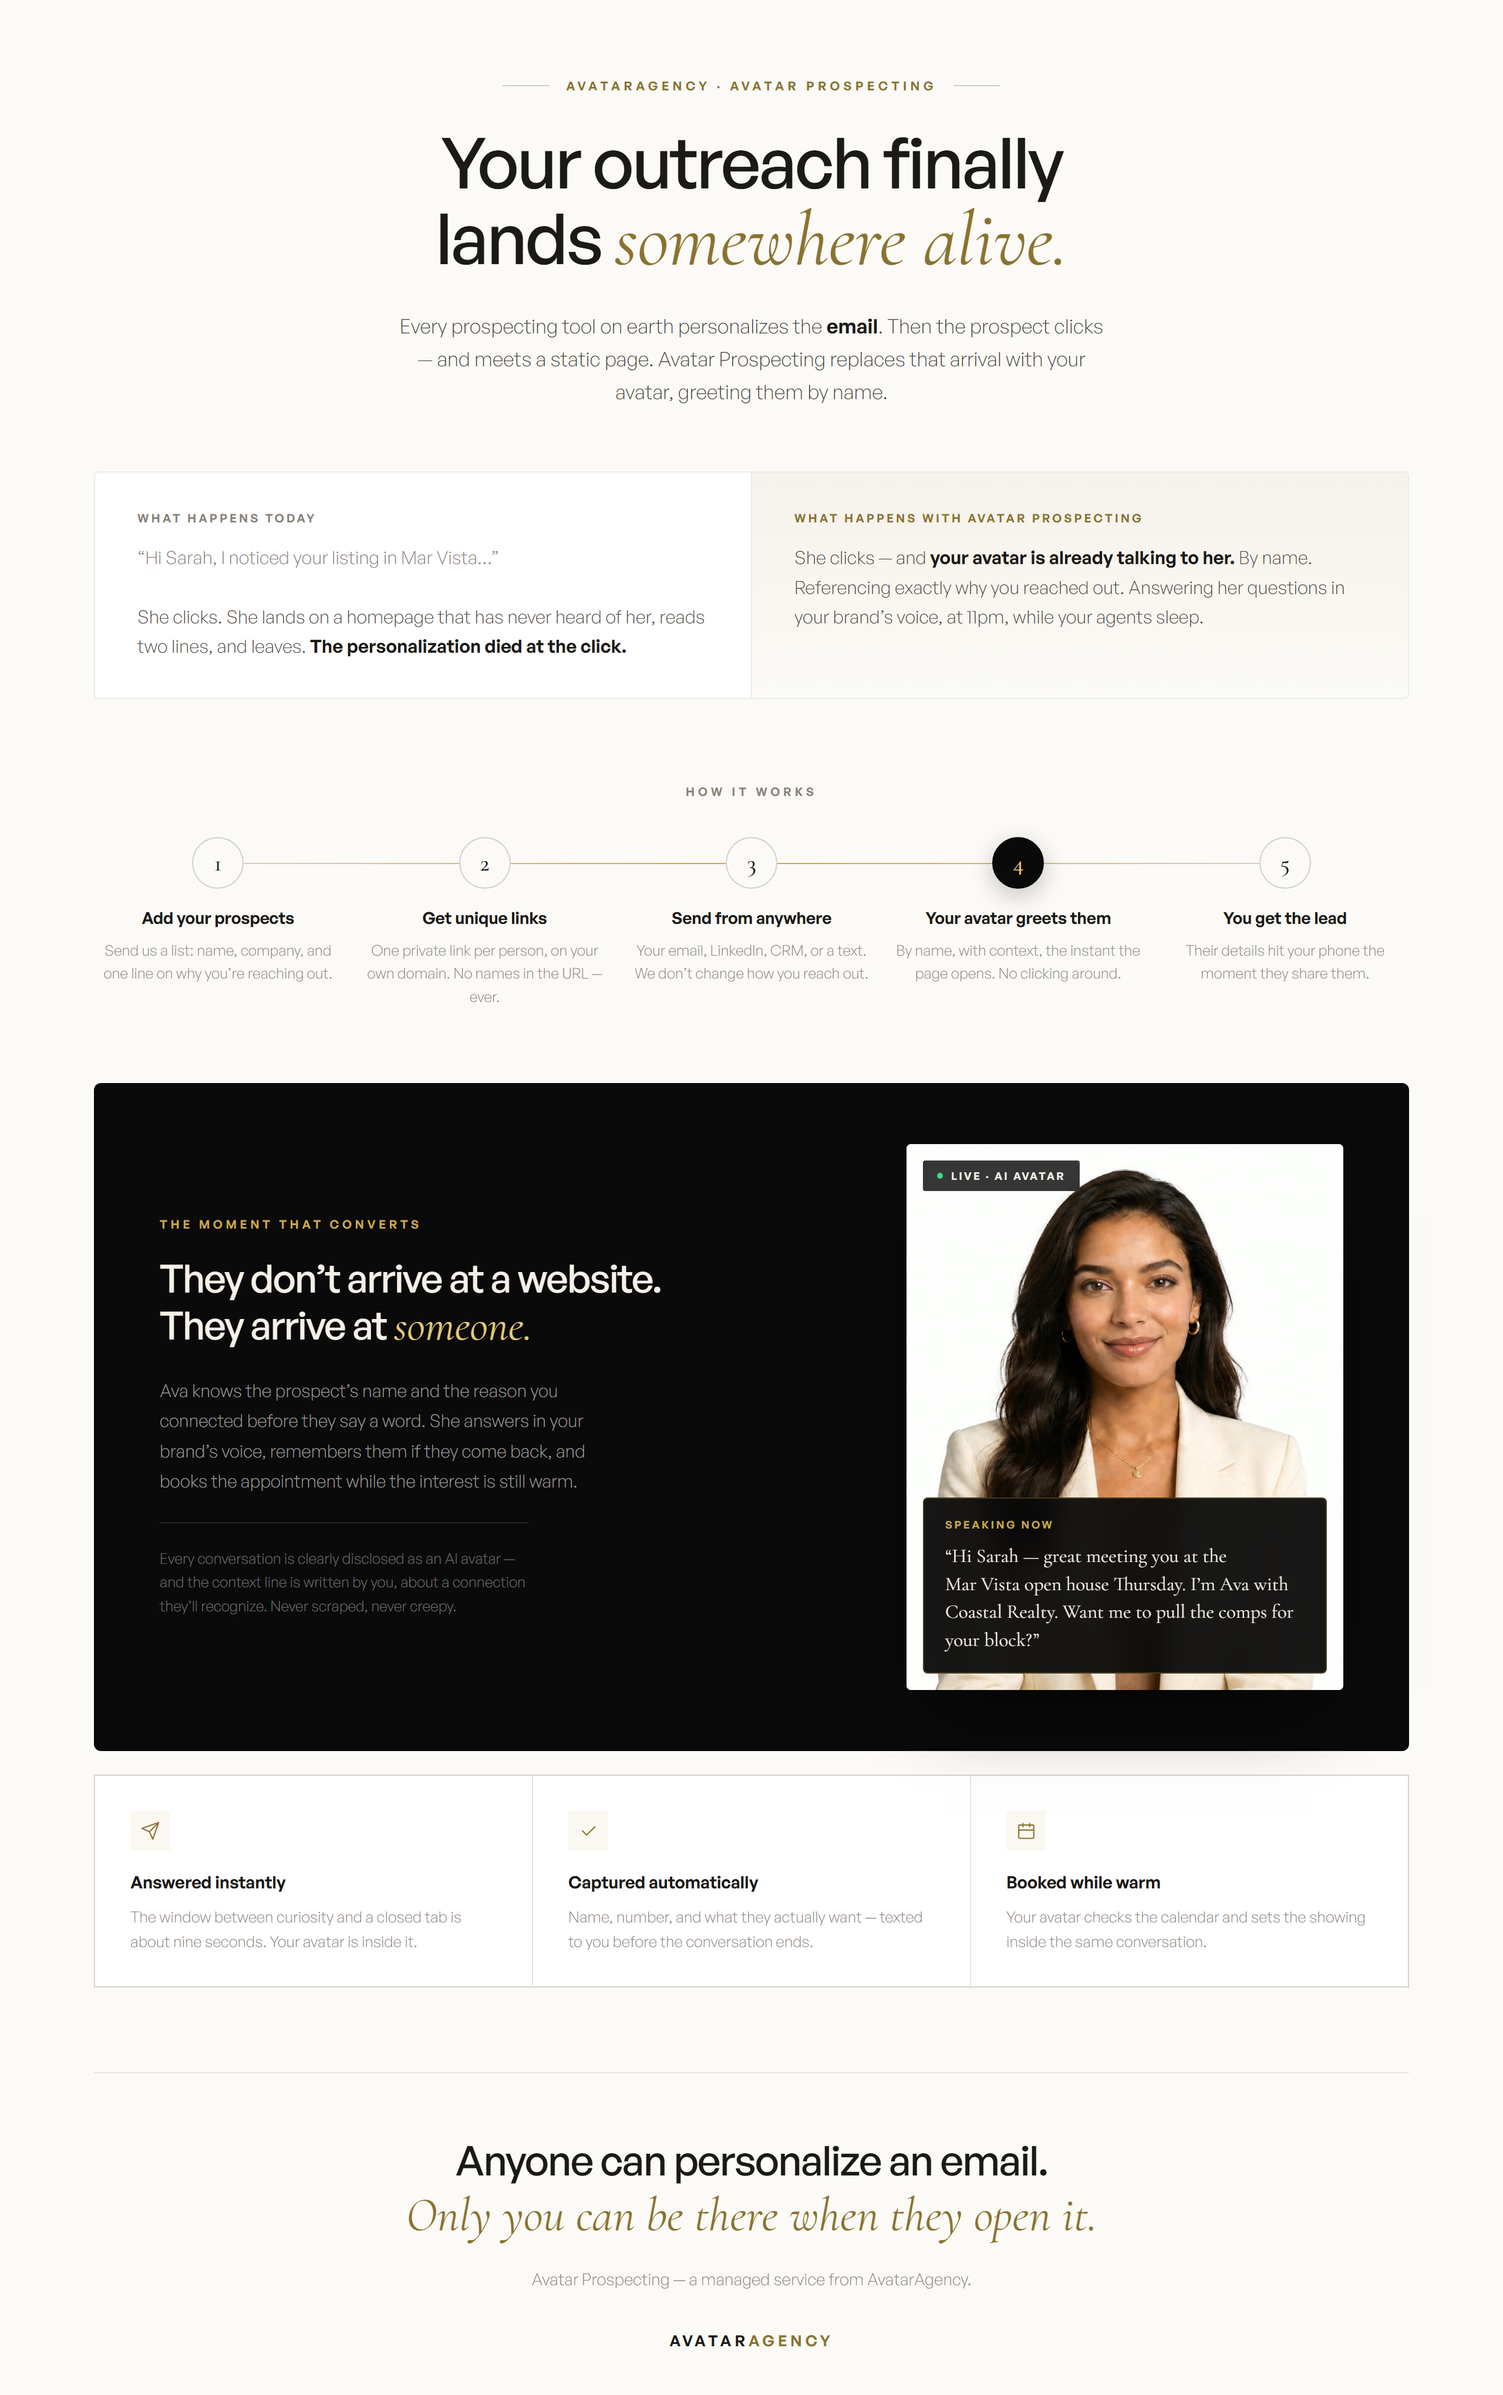
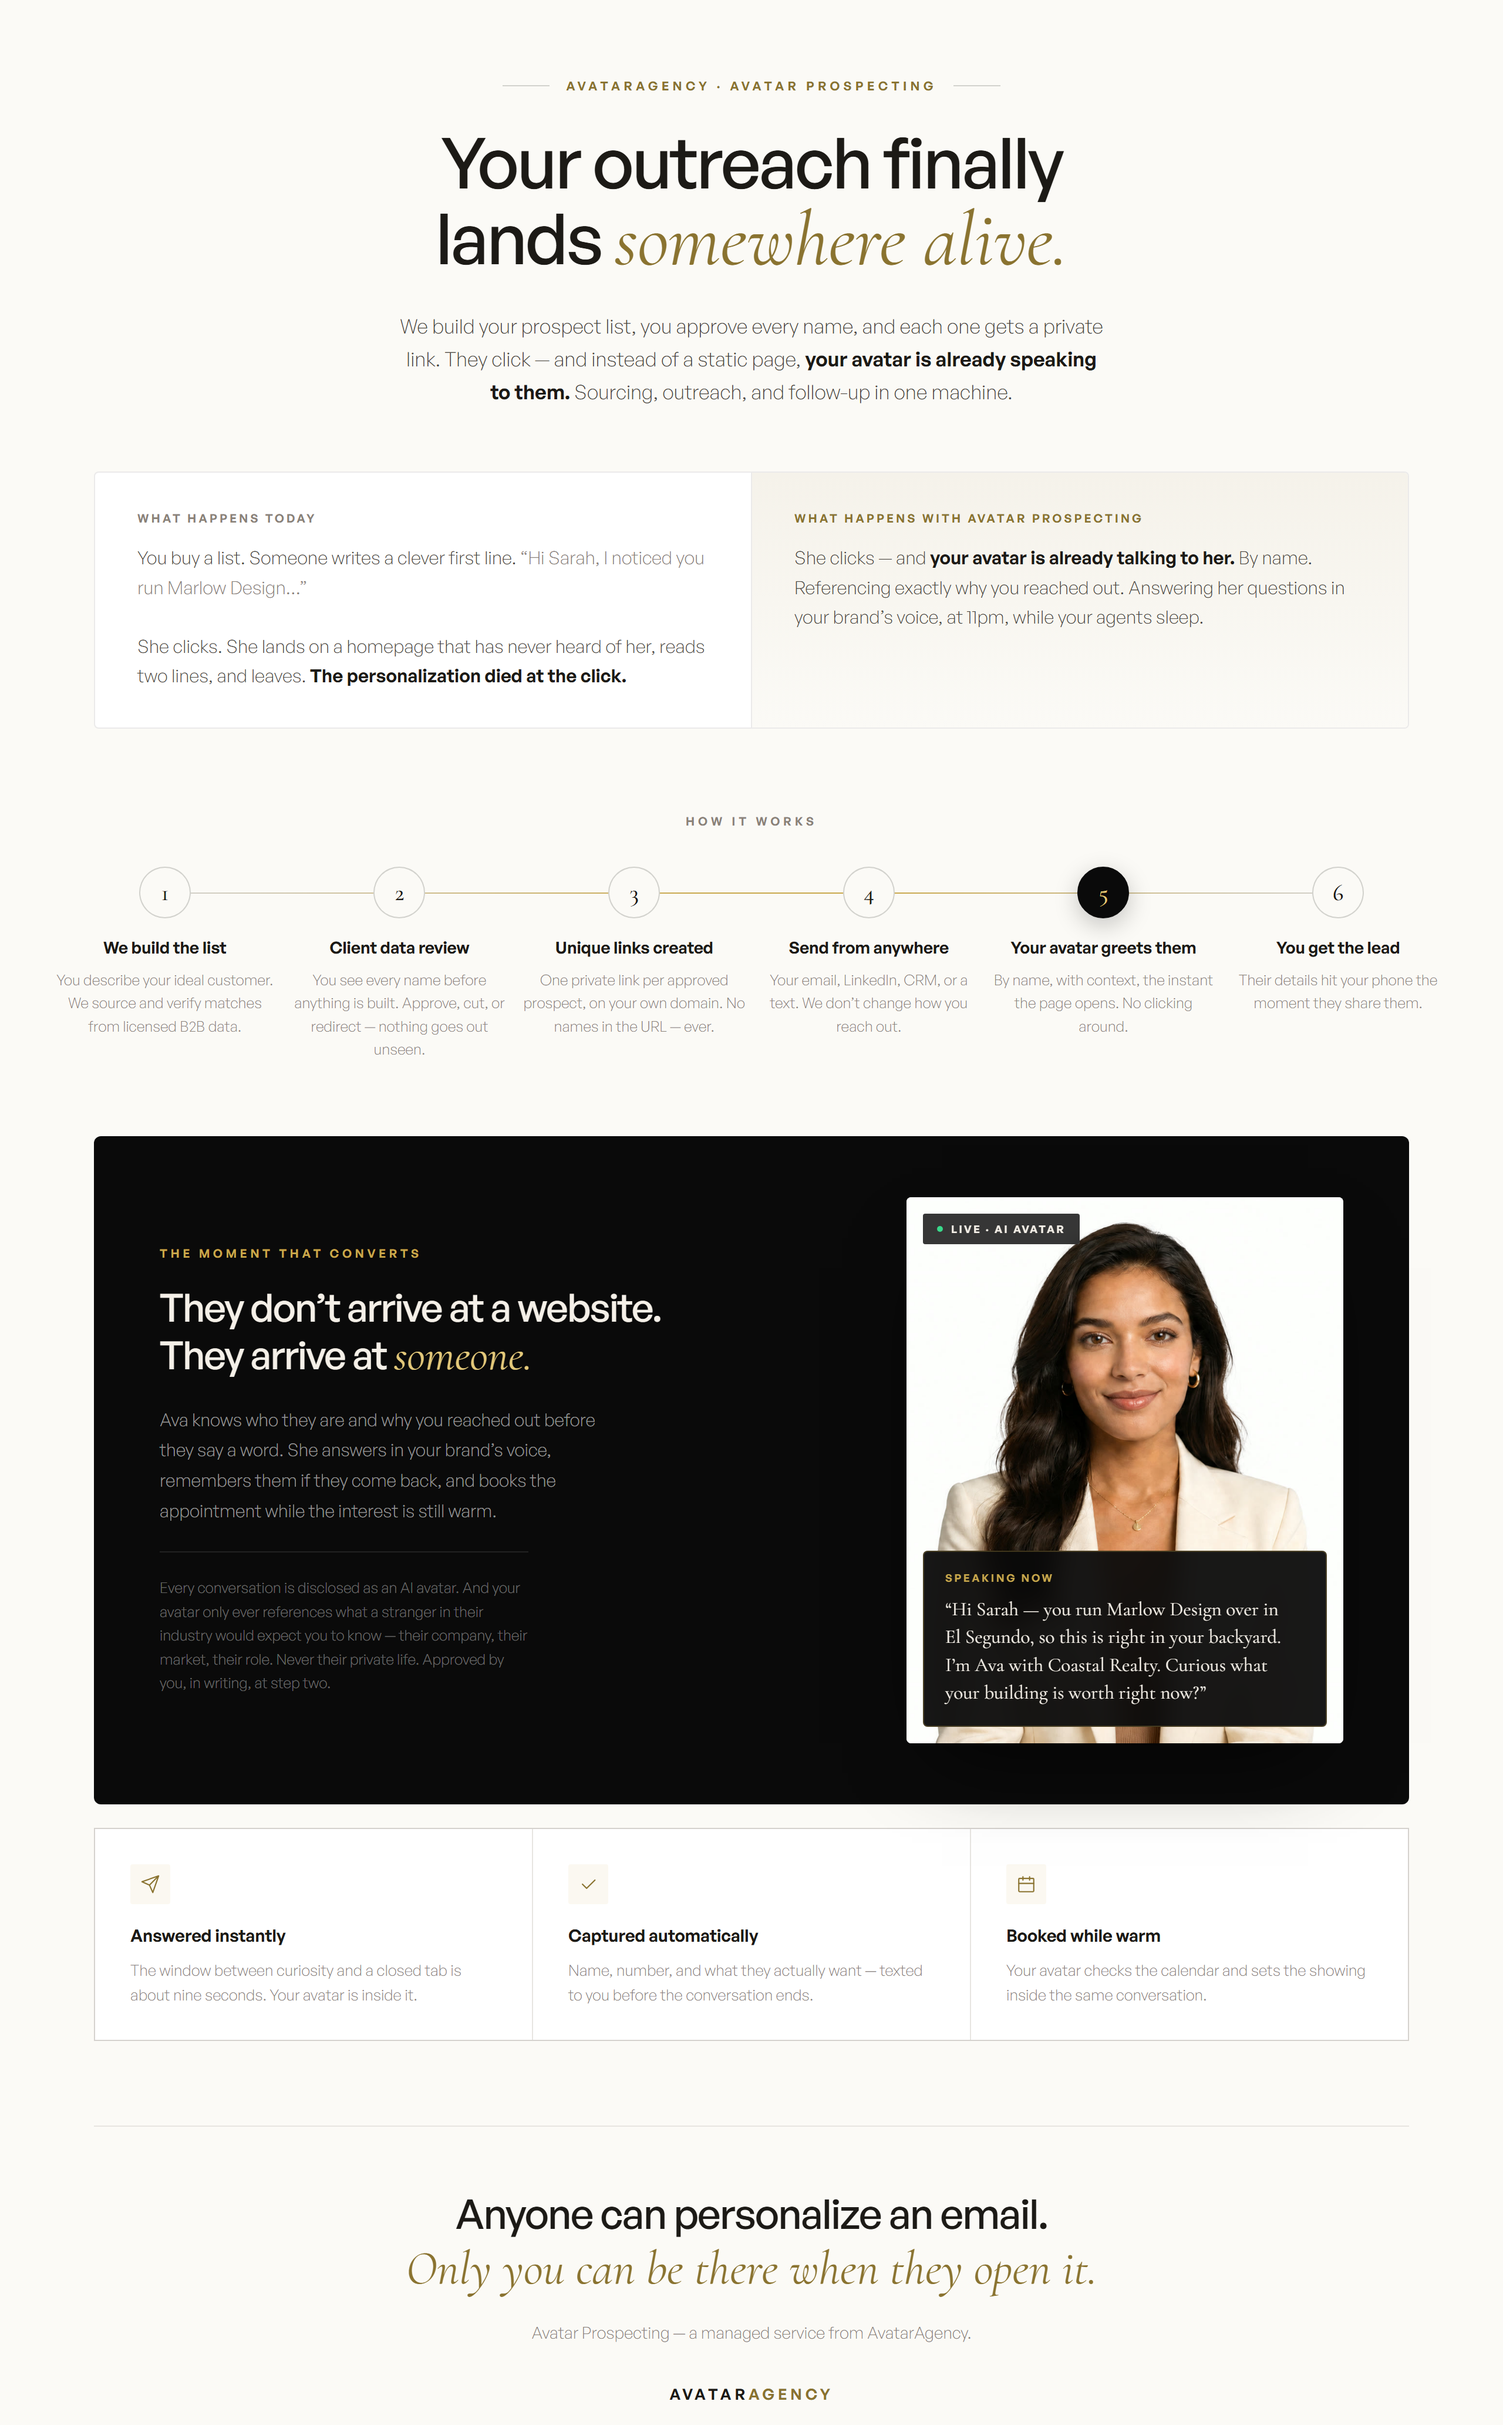
decks/avatarprospecting: add sourcing + client data review to the flow
Repositions the service from "links for your list" to end-to-end prospecting:
we source the list, client approves every name, then links are generated.

- flow 5 -> 6 steps; new step 1 (we build the list) and step 2 (client data review)
- cold-sourced example replaces the warm one: the avatar now references only
  public professional facts (company, market, role), never a personal connection
  that a sourced prospect would not recognize
- creepy-line rule restated for cold outreach + points at the review step
- data source described as "licensed B2B data", vendor deliberately unnamed

diff --git a/decks/avatarprospecting/index.html b/decks/avatarprospecting/index.html
@@ -57,9 +57,9 @@
   /* ---------- flow ---------- */
   .sec-label{font-size:10px;font-weight:600;letter-spacing:.3em;text-transform:uppercase;
              color:var(--text-mute);text-align:center;margin:72px 0 32px}
-  .flow{position:relative;display:grid;grid-template-columns:repeat(5,1fr);gap:16px}
-  .flow::before{content:'';position:absolute;top:22px;left:9%;right:9%;height:1px;
-                background:linear-gradient(90deg,var(--line-strong) 0%,var(--gold) 45%,var(--gold) 55%,var(--line-strong) 100%)}
+  .flow{position:relative;display:grid;grid-template-columns:repeat(6,1fr);gap:11px;margin:0 -34px}
+  .flow::before{content:'';position:absolute;top:22px;left:8%;right:8%;height:1px;
+                background:linear-gradient(90deg,var(--line-strong) 0%,var(--gold) 45%,var(--gold) 62%,var(--line-strong) 100%)}
   .node{position:relative;text-align:center}
   .num{width:44px;height:44px;border-radius:50%;background:var(--cream);border:1px solid var(--line-strong);
        display:grid;place-items:center;margin:0 auto 16px;font-family:var(--f-serif);
@@ -134,13 +134,13 @@
 
   <div class="eyebrow">AvatarAgency &middot; Avatar Prospecting</div>
   <h1>Your outreach finally lands <em>somewhere alive.</em></h1>
-  <p class="dek">Every prospecting tool on earth personalizes the <strong>email</strong>. Then the prospect clicks &mdash; and meets a static page. Avatar Prospecting replaces that arrival with your avatar, greeting them by name.</p>
+  <p class="dek">We build your prospect list, you approve every name, and each one gets a private link. They click &mdash; and instead of a static page, <strong>your avatar is already speaking to them.</strong> Sourcing, outreach, and follow-up in one machine.</p>
 
   <!-- problem / promise -->
   <div class="contrast">
     <div class="side before">
       <div class="tag">What happens today</div>
-      <p><span class="quiet">&ldquo;Hi Sarah, I noticed your listing in Mar Vista&hellip;&rdquo;</span><br><br>She clicks. She lands on a homepage that has never heard of her, reads two lines, and leaves. <strong>The personalization died at the click.</strong></p>
+      <p>You buy a list. Someone writes a clever first line. <span class="quiet">&ldquo;Hi Sarah, I noticed you run Marlow Design&hellip;&rdquo;</span><br><br>She clicks. She lands on a homepage that has never heard of her, reads two lines, and leaves. <strong>The personalization died at the click.</strong></p>
     </div>
     <div class="divider"></div>
     <div class="side after">
@@ -154,26 +154,31 @@
   <div class="flow">
     <div class="node">
       <div class="num">1</div>
-      <h3>Add your prospects</h3>
-      <p>Send us a list: name, company, and one line on why you&rsquo;re reaching out.</p>
+      <h3>We build the list</h3>
+      <p>You describe your ideal customer. We source and verify matches from licensed B2B data.</p>
     </div>
     <div class="node">
       <div class="num">2</div>
-      <h3>Get unique links</h3>
-      <p>One private link per person, on your own domain. No names in the URL &mdash; ever.</p>
+      <h3>Client data review</h3>
+      <p>You see every name before anything is built. Approve, cut, or redirect &mdash; nothing goes out unseen.</p>
     </div>
     <div class="node">
       <div class="num">3</div>
+      <h3>Unique links created</h3>
+      <p>One private link per approved prospect, on your own domain. No names in the URL &mdash; ever.</p>
+    </div>
+    <div class="node">
+      <div class="num">4</div>
       <h3>Send from anywhere</h3>
       <p>Your email, LinkedIn, CRM, or a text. We don&rsquo;t change how you reach out.</p>
     </div>
     <div class="node hot">
-      <div class="num">4</div>
+      <div class="num">5</div>
       <h3>Your avatar greets them</h3>
       <p>By name, with context, the instant the page opens. No clicking around.</p>
     </div>
     <div class="node">
-      <div class="num">5</div>
+      <div class="num">6</div>
       <h3>You get the lead</h3>
       <p>Their details hit your phone the moment they share them.</p>
     </div>
@@ -184,8 +189,8 @@
     <div>
       <div class="kicker">The moment that converts</div>
       <h2>They don&rsquo;t arrive at a website.<br>They arrive at <em>someone.</em></h2>
-      <p>Ava knows the prospect&rsquo;s name and the reason you connected before they say a word. She answers in your brand&rsquo;s voice, remembers them if they come back, and books the appointment while the interest is still warm.</p>
-      <p class="fine">Every conversation is clearly disclosed as an AI avatar &mdash; and the context line is written by you, about a connection they&rsquo;ll recognize. Never scraped, never creepy.</p>
+      <p>Ava knows who they are and why you reached out before they say a word. She answers in your brand&rsquo;s voice, remembers them if they come back, and books the appointment while the interest is still warm.</p>
+      <p class="fine">Every conversation is disclosed as an AI avatar. And your avatar only ever references what a stranger in their industry would expect you to know &mdash; their company, their market, their role. Never their private life. Approved by you, in writing, at step two.</p>
     </div>
     <div>
       <div class="stage">
@@ -193,7 +198,7 @@
         <span class="live"><i></i>Live &middot; AI Avatar</span>
         <div class="bubble">
           <div class="who">Speaking now</div>
-          <p>&ldquo;Hi Sarah &mdash; great meeting you at the Mar&nbsp;Vista open house Thursday. I&rsquo;m Ava with Coastal Realty. Want me to pull the comps for your block?&rdquo;</p>
+          <p>&ldquo;Hi Sarah &mdash; you run Marlow Design over in El&nbsp;Segundo, so this is right in your backyard. I&rsquo;m Ava with Coastal Realty. Curious what your building is worth right now?&rdquo;</p>
         </div>
       </div>
     </div>
